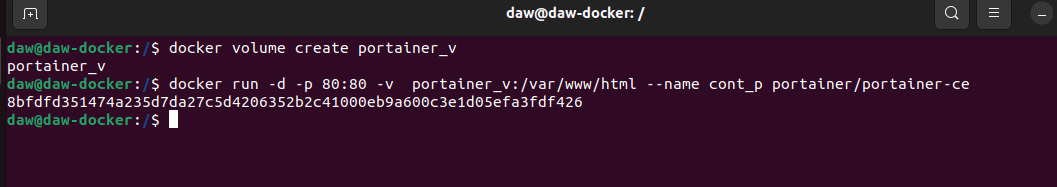
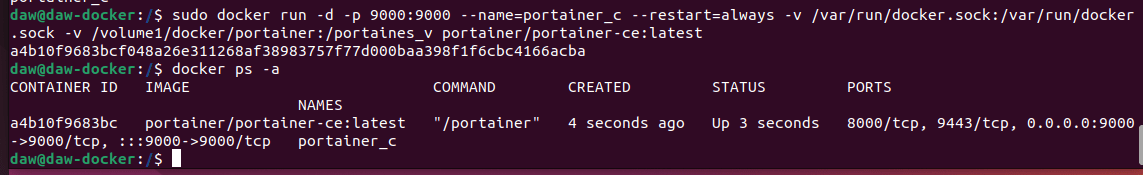
actualizacion ejercicio2

Changed region(s): [[0.0, 0.0, 0.9991, 0.7429], [0.0, 0.6571, 1.0, 1.0]]

diff --git a/EJERCICIOS/EJERCICIO 2/Ejercicio2.md b/EJERCICIOS/EJERCICIO 2/Ejercicio2.md
@@ -16,15 +16,35 @@ docker images
 ```
 ![](assets/comprobarimagenes.png)
 
-Creo un volumen para portainer y creo un contenedor le añadimos la imagen que descargamos y el volumen que acabo de crear
+Creo un volumen para portainer y creo un contenedor le añadimos la imagen que descargamos y el volumen que acabo de crear.
 
 ```bash
 docker volume create portainer_v
 
-docker run -d -p 80:80 -v  portainer_v:/var/www/html --name cont_p portainer/portainer-ce
-```
+sudo docker run -d -p 9000:9000 --name=portainer_c --restart=always -v /var/run/docker.sock:/var/run/docker.sock -v /volume1/docker/portainer:/portaines_v portainer/portainer-ce:latest
 
+```
 ![](assets/volumenycontenedor.png)
+
+La añadimos un directorio en el contenedor en el que irá el volumen y un puerto, en este caso 9000.
+
+Abrimos el navegador y vemos: 
+
+![](assets/navgador1.png)
+
+Paramos el contenedor:
+
+![](assets/stopcontainer.png)
+
+Comprobamos en el navegador lo que nos muestra el contenedor parado.
+
+![](assets/stopcontainernavegador.png)
+
+Borramos el contenedor
+
+![](assets/rmcontainer1.png)
+
+
 
 
 

diff --git a/DAILY/PATRICIA/PatriciaFdez.md b/DAILY/PATRICIA/PatriciaFdez.md
@@ -61,3 +61,7 @@ Hago git en el avance de la tarea, para guardar los cambios.
 - 16.28 pm: 
 
 Actualizo y corrijo el archivo daily.
+
+- 18.09 pm:
+
+Actualizo el ejercicio 2
